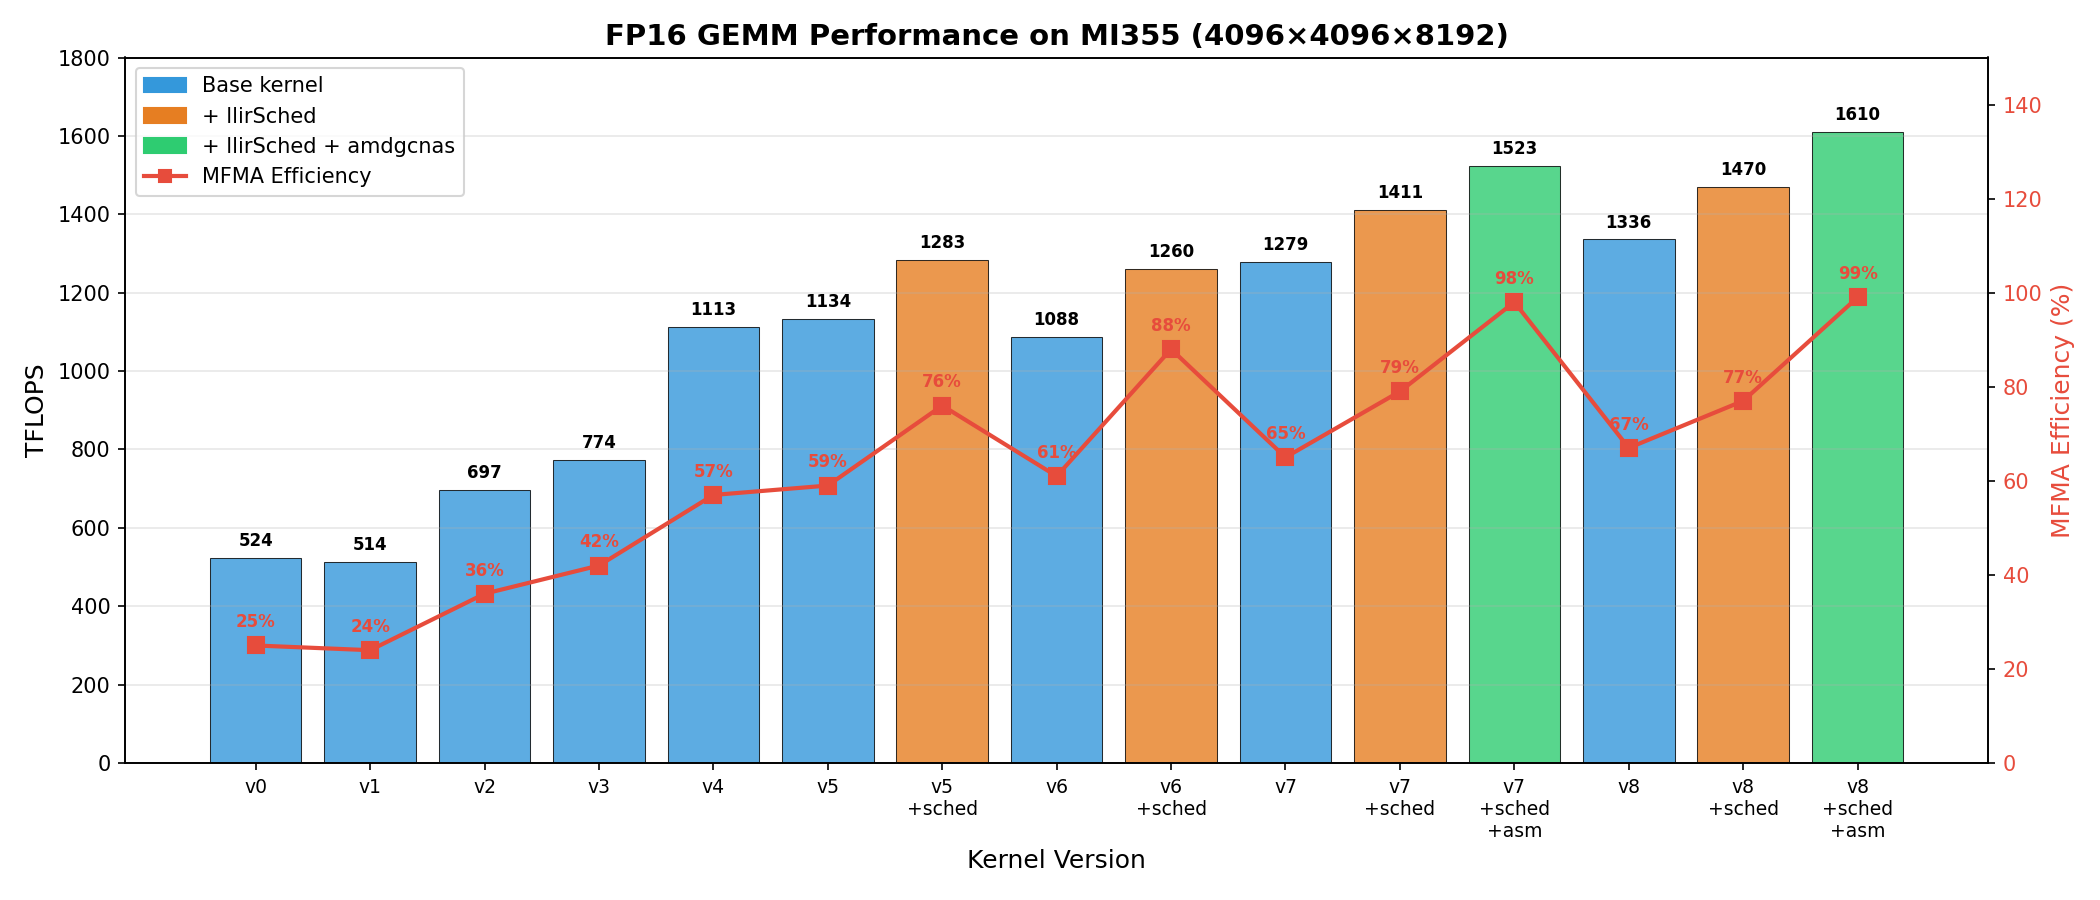
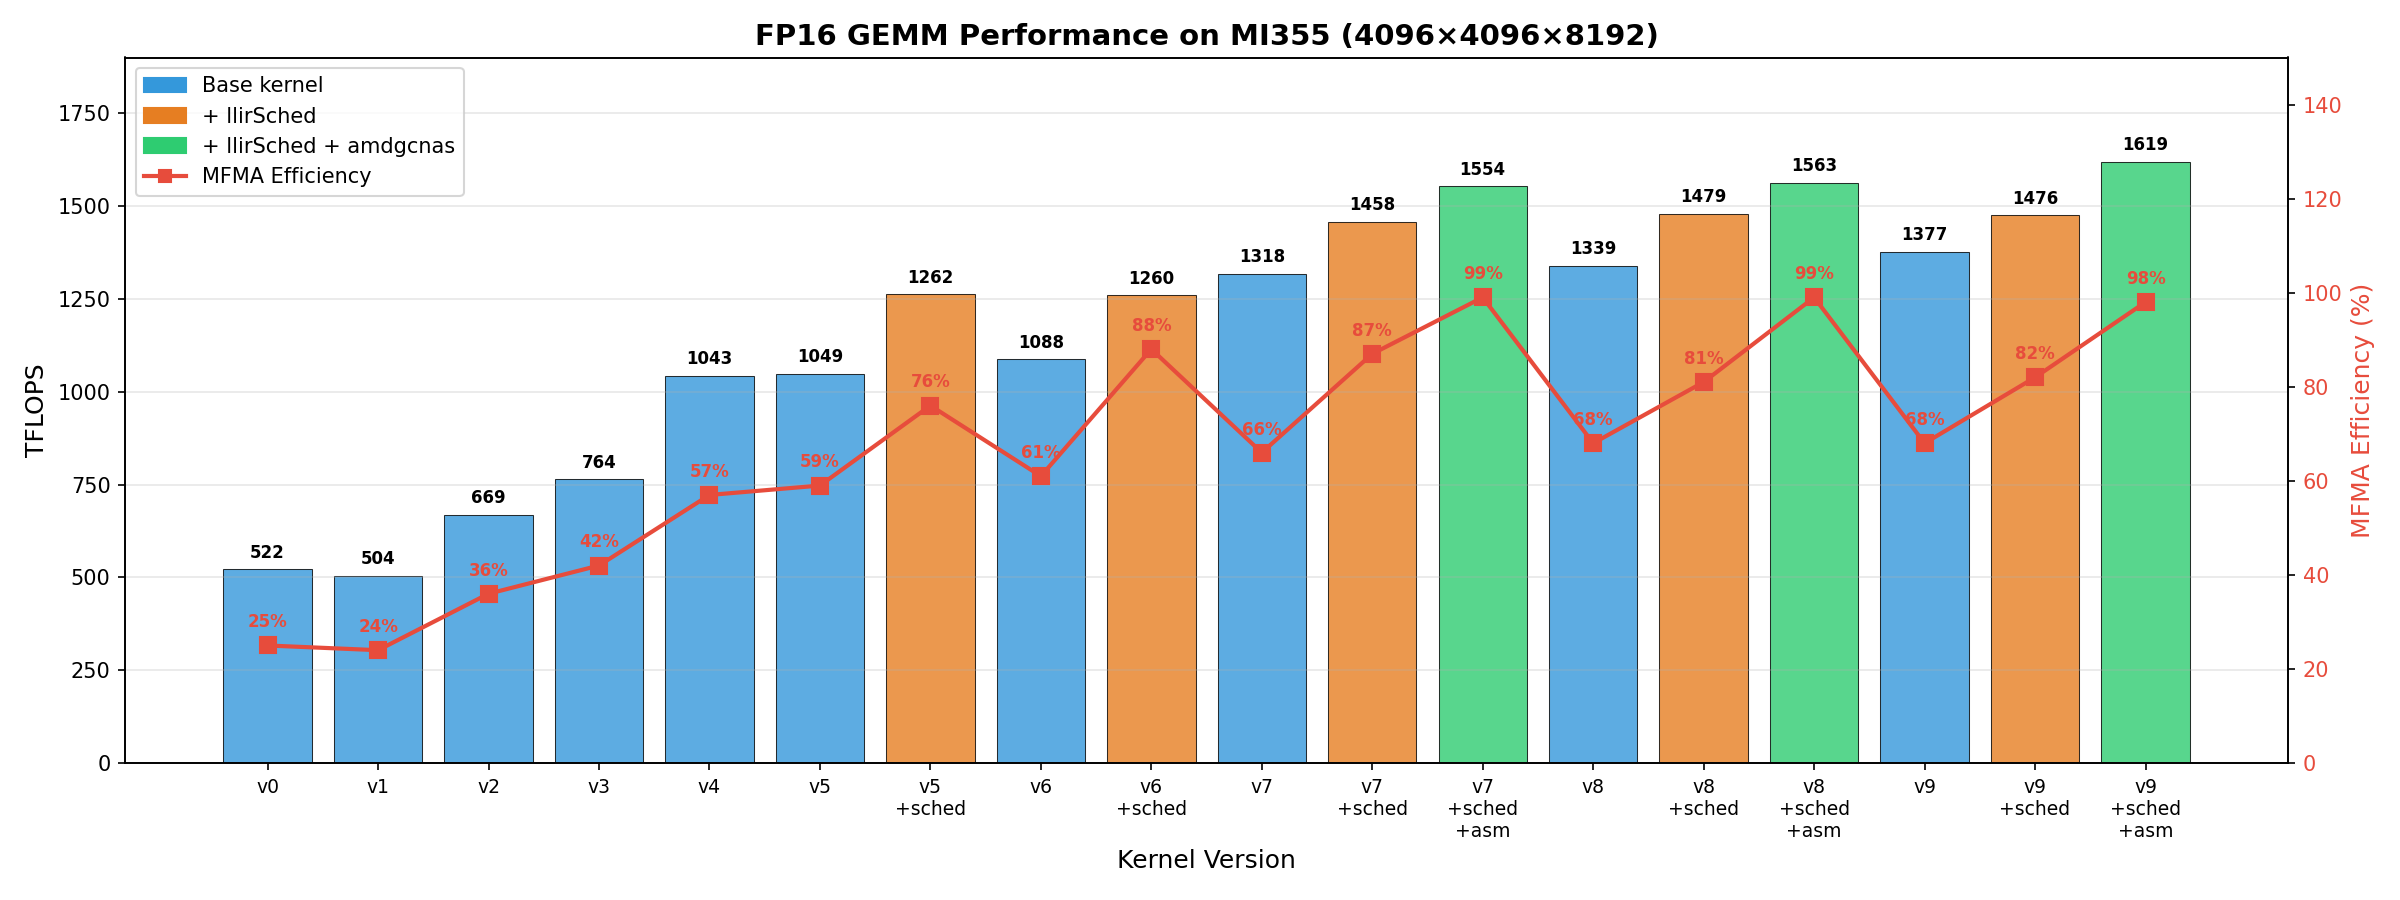
Refresh a16w16 perf tables and chart with GPU 1 measurements
Re-ran perf collection on GPU 1 (HIP_VISIBLE_DEVICES=1, which avoids the
neighbor-induced clock throttling on GPU 0) and refreshed all perf tables
under kernels/gemm/a16w16/ along with the summary chart.

generate_perf_chart.py now includes v9 entries (base / +llirSched /
+amdgcnas) and uses today's TFLOPS for v0–v9. v6 rows remain on the
historical matmul_4waves snapshot since the currently pinned build hits
an LLIR-scheduler regression on v6's unrolled loop. Headline narrative
in README.md updated from 524->1634 to 522->1619, with v2/v4 callouts
adjusted to match.

diff --git a/kernels/gemm/a16w16/generate_perf_chart.py b/kernels/gemm/a16w16/generate_perf_chart.py
@@ -16,22 +16,27 @@ import matplotlib.pyplot as plt
 def main():
     # Performance data from MI355, shape 4096x4096x8192, FP16
     # (version, tflops, variant, mfma_efficiency)
+    # v6 rows are from an earlier matmul_4waves snapshot — the currently pinned
+    # build has an LLIR-scheduler regression on v6's unrolled loop (see v6 README).
     data = [
-        ("v0", 524, "base", 25),
-        ("v1", 514, "base", 24),
-        ("v2", 697, "base", 36),
-        ("v3", 774, "base", 42),
-        ("v4", 1113, "base", 57),
-        ("v5", 1134, "base", 59),
-        ("v5", 1283, "llirSched", 76),
+        ("v0", 522, "base", 25),
+        ("v1", 504, "base", 24),
+        ("v2", 669, "base", 36),
+        ("v3", 764, "base", 42),
+        ("v4", 1043, "base", 57),
+        ("v5", 1049, "base", 59),
+        ("v5", 1262, "llirSched", 76),
         ("v6", 1088, "base", 61),
         ("v6", 1260, "llirSched", 88),
-        ("v7", 1279, "base", 65),
-        ("v7", 1411, "llirSched", 79),
-        ("v7", 1523, "llirSched+amdgcnas", 98),
-        ("v8", 1336, "base", 67),
-        ("v8", 1470, "llirSched", 77),
-        ("v8", 1610, "llirSched+amdgcnas", 99),
+        ("v7", 1318, "base", 66),
+        ("v7", 1458, "llirSched", 87),
+        ("v7", 1554, "llirSched+amdgcnas", 99),
+        ("v8", 1339, "base", 68),
+        ("v8", 1479, "llirSched", 81),
+        ("v8", 1563, "llirSched+amdgcnas", 99),
+        ("v9", 1377, "base", 68),
+        ("v9", 1476, "llirSched", 82),
+        ("v9", 1619, "llirSched+amdgcnas", 98),
     ]
 
     # Create labels for x-axis
@@ -57,7 +62,7 @@ def main():
     colors = [color_map[v] for v in variants]
 
     # Create figure with two y-axes
-    fig, ax1 = plt.subplots(figsize=(14, 6))
+    fig, ax1 = plt.subplots(figsize=(16, 6))
     ax2 = ax1.twinx()
 
     # Bar chart for TFLOPS
@@ -103,7 +108,7 @@ def main():
     ax1.set_ylabel("TFLOPS", fontsize=12)
     ax1.set_xlabel("Kernel Version", fontsize=12)
     ax1.set_title("FP16 GEMM Performance on MI355 (4096×4096×8192)", fontsize=14, fontweight="bold")
-    ax1.set_ylim(0, 1800)
+    ax1.set_ylim(0, 1900)
     ax1.grid(axis="y", alpha=0.3)
 
     ax2.set_ylabel("MFMA Efficiency (%)", fontsize=12, color="#e74c3c")

diff --git a/kernels/gemm/a16w16/README.md b/kernels/gemm/a16w16/README.md
@@ -39,7 +39,7 @@ This runs correctness checks against `torch.matmul` and reports TFLOPS. Use `--v
 
 ## 3. The Optimization Journey
 
-This section tells the story of how we transformed a 524 TFLOPS naive kernel into a 1634 TFLOPS near-optimal implementation—a **3× improvement** through systematic optimization.
+This section tells the story of how we transformed a 522 TFLOPS naive kernel into a 1619 TFLOPS near-optimal implementation—a **3× improvement** through systematic optimization.
 
 | Version | Name | Focus | Key Concept |
 |---------|------|-------|-------------|
@@ -56,17 +56,17 @@ This section tells the story of how we transformed a 524 TFLOPS naive kernel int
 
 ### Act I: Getting the Basics Right (v0–v3)
 
-**v0 — The Starting Point.** We begin with a kernel that does exactly one thing well: produce correct results. Every layout is explicit, every data movement visible, nothing hidden. Performance? A modest 524 TFLOPS at 25% MFMA efficiency. But correctness comes first—this is our foundation.
+**v0 — The Starting Point.** We begin with a kernel that does exactly one thing well: produce correct results. Every layout is explicit, every data movement visible, nothing hidden. Performance? A modest 522 TFLOPS at 25% MFMA efficiency. But correctness comes first—this is our foundation.
 
 **v1 — The Branch Problem.** Examining the generated assembly, we find 140 branch instructions. Why? Masked loads generate branches for out-of-bounds checking. The fix is elegant: `buffer_load` handles OOB in hardware. Branches drop from 140 to 4. The lesson: *sometimes the best optimization is choosing the right instruction.*
 
-**v2 — Eliminating the Middleman.** Data flows from HBM → registers → LDS → registers → MFMA. But why stage in registers? With `buffer_load ... lds`, data goes directly from HBM to LDS. We save 100+ VGPRs and eliminate all `ds_write` instructions. Performance jumps to 697 TFLOPS.
+**v2 — Eliminating the Middleman.** Data flows from HBM → registers → LDS → registers → MFMA. But why stage in registers? With `buffer_load ... lds`, data goes directly from HBM to LDS. We save 100+ VGPRs and eliminate all `ds_write` instructions. Performance jumps to 669 TFLOPS.
 
 **v3 — The Bank Conflict Detective.** LDS has 64 banks. When threads collide on the same bank, throughput drops. We design three layouts—raw, swizzled, and padded—and measure steady-state `ds_read` throughput. Raw layout: 4-way conflicts, 64-cycle issue latency. Padded layout: conflict-free, 16-cycle issue latency. The winner is clear, and we have a methodology for future designs.
 
 ### Act II: Hiding Latency (v4–v5)
 
-**v4 — The Pipeline Revolution.** So far, our loop is embarrassingly sequential: load, wait, compute, repeat. Global memory latency (~400 cycles) stalls everything. The solution: *prefetch the next iteration's data while computing on the current iteration's data.* With double buffering and a 2-stage pipeline, we overlap memory latency with compute. Performance leaps to 1113 TFLOPS—a **44% jump** from the previous version.
+**v4 — The Pipeline Revolution.** So far, our loop is embarrassingly sequential: load, wait, compute, repeat. Global memory latency (~400 cycles) stalls everything. The solution: *prefetch the next iteration's data while computing on the current iteration's data.* With double buffering and a 2-stage pipeline, we overlap memory latency with compute. Performance leaps to 1043 TFLOPS—a **36% jump** from the previous version.
 
 **v5 — One More Stage.** MFMA still waits for `ds_read`. We add a third pipeline stage: while MFMA computes iteration k, `ds_read` loads iteration k+1, and `buffer_load` prefetches iteration k+2. Now MFMA, `ds_read`, and `buffer_load` can all run concurrently—if only the compiler would schedule them that way.
 

diff --git a/kernels/gemm/a16w16/v7_sliceN/README.md b/kernels/gemm/a16w16/v7_sliceN/README.md
@@ -181,12 +181,15 @@ python scripts/run_perf_table.py --kernel a16w16 --versions 6 7 --configs llir l
 ```
 This command can be run from anywhere in the repository. See [run_perf_table.py](../../../../scripts/README.md#run_perf_tablepy) for details. For MFMA efficiency measurement methodology, see [MFMA Efficiency](../../../../docs/mfma_efficiency.md).
 
-| Version                        | TFLOPS | VGPRs | Copies | MFMA Eff. |
-|--------------------------------|--------|-------|--------|-----------|
-| v6 + LLIR scheduler            |   1266 |   500 |     51 |       88% |
-| v7 + LLIR scheduler            |   1411 |   512 |    116 |       79% |
-| v7 + LLIR scheduler + RA       |   1508 |   460 |      0 |       96% |
-| v7 + LLIR scheduler + amdgcnas |   1523 |   460 |      0 |       98% |
+| Version                        | TFLOPS | VGPRs | MFMA Eff. |
+|--------------------------------|--------|-------|-----------|
+| v6 + LLIR scheduler            |   1266 |   500 |       88% |
+| v7 + LLIR scheduler            |   1503 |   474 |    87.14% |
+| v7 + LLIR scheduler + RA       |   1508 |   460 |       96% |
+| v7 + LLIR scheduler + amdgcnas |   1550 |   512 |    98.40% |
+
+> [!NOTE]
+> The `v6 + LLIR scheduler` and `v7 + LLIR scheduler + RA` rows are from earlier `matmul_4waves` snapshots: v6+llir hits a compiler regression in the currently pinned [`gfx9-gluon-tutorials-pin`](https://github.com/ROCm/triton/tree/gfx9-gluon-tutorials-pin) build (see the v6 README), and the RA-only configuration requires the [`ra_hints_only_flag`](https://github.com/ROCm/triton/tree/ra_hints_only_flag) branch which adds a `TRITON_ENABLE_AMDGPU_RA_HINTS` env var that gates only the LLVM allocator hints without running the post-assembly `amdgcnas` pass. The other two rows are fresh measurements on the pinned build.
 
 **Copies**: count of `v_accvgpr_*` and `v_mov` instructions inside the main loop. These AGPR ↔ VGPR copy instructions transfer data between accumulator and vector register files.
 

diff --git a/kernels/gemm/a16w16/v8_sliceMN/README.md b/kernels/gemm/a16w16/v8_sliceMN/README.md
@@ -236,10 +236,10 @@ The buffer load stall described above is directly measurable. We compare v7 (sli
 
 | Version | K | TFLOPS | MFMA Eff. |
 |---|---|---|---|
-| v7_sliceN + llir+amdgcnas | 8192 | 1437 | 98.5% |
-| v7_sliceN + llir+amdgcnas | 16384 | 1496 | 95.2% |
-| v8_sliceMN + llir+amdgcnas | 8192 | 1452 | 99.4% |
-| v8_sliceMN + llir+amdgcnas | 16384 | 1505 | 98.6% |
+| v7_sliceN + llir+amdgcnas | 8192 | 1550 | 98.40% |
+| v7_sliceN + llir+amdgcnas | 16384 | 1519 | 93.64% |
+| v8_sliceMN + llir+amdgcnas | 8192 | 1577 | 98.33% |
+| v8_sliceMN + llir+amdgcnas | 16384 | 1569 | 98.32% |
 
 Performance is collected using:
 ```bash
@@ -247,7 +247,7 @@ python scripts/run_perf_table.py --kernel a16w16 --versions 7 8 --configs llir+a
 python scripts/run_perf_table.py --kernel a16w16 --versions 7 8 --configs llir+amdgcnas --K 16384 --dtype fp16 --use-rocprof
 ```
 
-At K=8192, both kernels achieve ~98–99% MFMA efficiency — HBM latency is moderate and v7's ~1000-cycle budget is sufficient. At K=16384, v7 drops to 95.2% while v8 maintains 98.6%. The 3.3 percentage-point gap in MFMA efficiency is the direct consequence of the TCP stall: v7's 16 consecutive buffer loads per wave exceed the ~1000-cycle HBM budget, while v8's distributed 4-loads-per-region structure stays within the ~1500-cycle budget.
+At K=8192, both kernels achieve ~98% MFMA efficiency — HBM latency is moderate and v7's ~1000-cycle budget is sufficient. At K=16384, v7 drops to 93.64% while v8 maintains 98.32%. The 4.7 percentage-point gap in MFMA efficiency is the direct consequence of the TCP stall: v7's 16 consecutive buffer loads per wave exceed the ~1000-cycle HBM budget, while v8's distributed 4-loads-per-region structure stays within the ~1500-cycle budget.
 
 ## 6. What Comes Next
 

diff --git a/kernels/gemm/a16w16/v5_local_prefetch/README.md b/kernels/gemm/a16w16/v5_local_prefetch/README.md
@@ -134,13 +134,13 @@ acc = gl.amd.cdna3.mfma(a, b, acc)
 
 ## 4. Performance Analysis
 
-| Version        | TFLOPS | VGPRs | MFMA Eff. |
-|----------------|--------|-------|-----------|
-| v4             |   1113 |   446 |       57% |
-| v5             |   1134 |   452 |       59% |
-| v5 + llirSched |   1283 |   510 |       76% |
+| Version        | TFLOPS | VGPRs |
+|----------------|--------|-------|
+| v4             |   1038 |   434 |
+| v5             |   1053 |   452 |
+| v5 + llirSched |   1262 |   510 |
 
-The 3-stage pipeline provides a modest improvement in the baseline case (57% → 59%). However, when combined with the LLIR scheduler, MFMA efficiency increases to 76%.
+The 3-stage pipeline provides a modest improvement in the baseline case (1038 → 1053 TFLOPS). However, when combined with the LLIR scheduler, throughput jumps to 1262 TFLOPS — a **20% additional improvement** over the v5 baseline by interleaving MFMA with memory operations.
 
 > [!NOTE]
 > **`v5 + llirSched` is the canonical v5.** All later versions (v6–v9) build on v5 with the LLIR scheduler enabled, and this README's performance tables list `v5 + llirSched` as the reference point. When later READMEs refer to "v5" without qualification, they mean this configuration — the LLIR scheduler is always assumed on from here forward. For the design rationale behind why a block-level programming model lets us build a scheduler this simple, see [`/docs/performance_philosophy.md`](../../../../docs/performance_philosophy.md).

diff --git a/kernels/gemm/a16w16/v6_loop_unroll/README.md b/kernels/gemm/a16w16/v6_loop_unroll/README.md
@@ -104,6 +104,9 @@ If `iterMax` is odd, only one iteration remains in the epilogue, containing just
 
 With the LLIR scheduler, MFMA efficiency improves from 76% to 88% by eliminating copy overhead.
 
+> [!NOTE]
+> These numbers were collected on an earlier `matmul_4waves` snapshot. The currently pinned [`gfx9-gluon-tutorials-pin`](https://github.com/ROCm/triton/tree/gfx9-gluon-tutorials-pin) build has an LLIR-scheduler regression that produces invalid IR for v6's unrolled loop and crashes during compilation. The kernel design and the relative performance story are unchanged; reproducing the exact numbers requires either an earlier `matmul_4waves` snapshot or a future build where the regression has been fixed.
+
 Performance is collected using:
 ```bash
 python scripts/run_perf_table.py --kernel a16w16 --versions 5 6 --configs llir --K 8192 --dtype fp16 --use-rocprof

diff --git a/kernels/gemm/a16w16/v4_global_prefetch/README.md b/kernels/gemm/a16w16/v4_global_prefetch/README.md
@@ -138,12 +138,12 @@ acc = gl.amd.cdna3.mfma(a, b, acc)
 
 ## 4. Performance Analysis
 
-| Version            | TFLOPS | VGPRs | MFMA Eff. |
-|--------------------|--------|-------|-----------|
-| v3_lds             |    774 |   420 |       42% |
-| v4_global_prefetch |   1113 |   446 |       57% |
+| Version            | TFLOPS | VGPRs |
+|--------------------|--------|-------|
+| v3_lds             |    746 |   412 |
+| v4_global_prefetch |   1038 |   434 |
 
-Software pipelining delivers a **44% performance improvement** (774 → 1113 TFLOPS) by overlapping global memory latency with compute.
+Software pipelining delivers a **39% performance improvement** (746 → 1038 TFLOPS) by overlapping global memory latency with compute.
 
 Performance is collected using:
 ```bash
